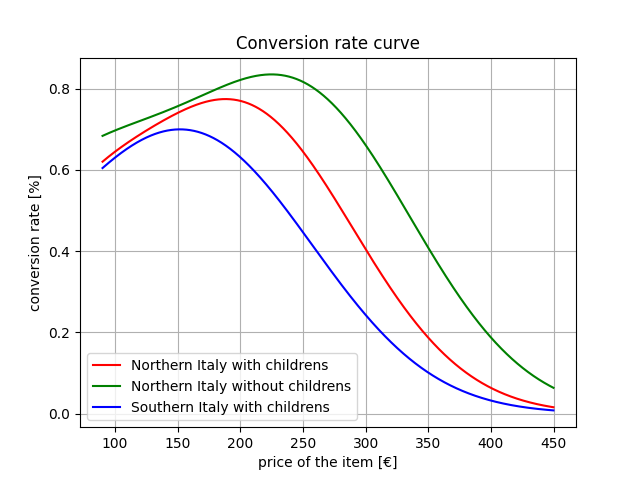
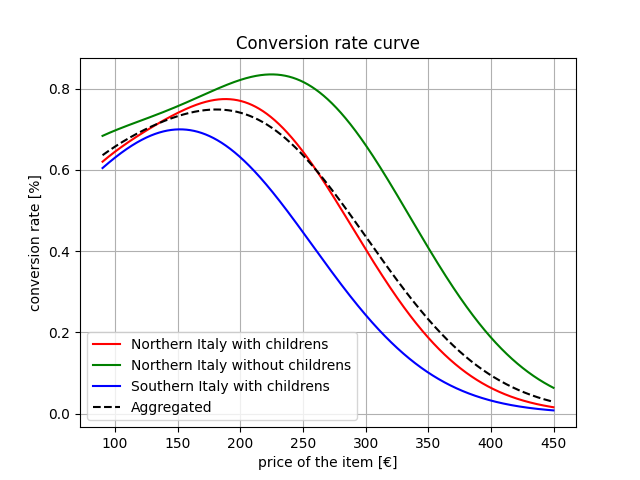
Fix legend in demandLearner & small changes

diff --git a/PricingForClicks/main.py b/PricingForClicks/main.py
@@ -5,7 +5,7 @@ import utils, math
 from scipy import optimize
 
 
-f = lambda x: utils.getDemandCurve(0, x)
+f = lambda x: utils.getDemandCurve(-1, x)  # aggregated fn
 T = 300
 best_x = optimize.fmin(lambda x: -f(x), T/2)
 optimum = f(best_x)
@@ -18,15 +18,17 @@ colors = ['r', 'g', 'b', 'c', 'y']
 
 for n in range(n_arms-2, n_arms + 3):
     n_arms_arr.append((n, colors[n % 5]))
+n_arms_arr.append((12, 'k--'))  # 25€ steps
 
 np_arms_arr = np.array(n_arms_arr)
 
-n_experiments = 1000
+n_experiments = 10
 ts_rewards_per_experiment = []
+legend = []
 
 for (n_arms, c) in n_arms_arr:
     print("N ARMS: %d" % n_arms)
-    env = Environment(n_arms=n_arms, demandCurve=f, minPrice=0, maxPrice=400)
+    env = Environment(n_arms=n_arms, demandCurve=f, minPrice=100, maxPrice=400)
     for e in range(0, n_experiments):
         ts_learner = TS_Learner(n_arms=n_arms)
         for t in range(0, T):
@@ -39,6 +41,7 @@ for (n_arms, c) in n_arms_arr:
 
     plt.figure(0)
     plt.plot(np.cumsum(np.mean(optimum - ts_rewards_per_experiment,axis=0)), c)
+    legend.append(str(n_arms) + " arms")
 
-plt.legend(np_arms_arr[:, 1])
+plt.legend(legend)
 plt.show()

diff --git a/utils.py b/utils.py
@@ -41,5 +41,7 @@ def getDemandCurve(userType, t):
         return 0.75*np.exp(-np.power(t - 200, 2.) / (2 * np.power(90, 2.))) + 0.3*np.exp(-np.power(t - 60, 2.) / (2 * np.power(60, 2.)))
     elif (userType == 1):
         return 0.75*np.exp(-np.power(t - 250, 2.) / (2 * np.power(90, 2.))) + 0.55*np.exp(-np.power(t - 65, 2.) / (2 * np.power(90, 2.)))
-    else:
+    elif  (userType == 2):
         return 0.42*np.exp(-np.power(t - 180, 2.) / (2 * np.power(90, 2.))) + 0.35*np.exp(-np.power(t - 85, 2.) / (2 * np.power(120, 2.)))
+    else:
+        return (0.75*np.exp(-np.power(t - 200, 2.) / (2 * np.power(90, 2.))) + 0.3*np.exp(-np.power(t - 60, 2.) / (2 * np.power(60, 2.))) + 0.75*np.exp(-np.power(t - 250, 2.) / (2 * np.power(90, 2.))) + 0.55*np.exp(-np.power(t - 65, 2.) / (2 * np.power(90, 2.))) + 0.42*np.exp(-np.power(t - 180, 2.) / (2 * np.power(90, 2.))) + 0.35*np.exp(-np.power(t - 85, 2.) / (2 * np.power(120, 2.)))) / 3

diff --git a/demand_cure_plotter.py b/demand_cure_plotter.py
@@ -9,12 +9,14 @@ t = np.arange(90., 450., 0.1)
 s1 = utils.getDemandCurve(0, t)
 s2 = utils.getDemandCurve(1, t)
 s3 = utils.getDemandCurve(2, t)
+aggr = utils.getDemandCurve(-1, t)
 
 fig, ax = plt.subplots()
 ax.plot(t, s1, "r")
 ax.plot(t, s2, "g")
 ax.plot(t, s3, "b")
-plt.legend(["Northern Italy with childrens", "Northern Italy without childrens", "Southern Italy with childrens"])
+ax.plot(t, aggr, "k--")
+plt.legend(["Northern Italy with childrens", "Northern Italy without childrens", "Southern Italy with childrens", "Aggregated"])
 ax.set(xlabel='price of the item [€]', ylabel='conversion rate [%]',
        title='Conversion rate curve')
 ax.grid()

diff --git a/Non_Stationary/cmab_with_phases.py b/Non_Stationary/cmab_with_phases.py
@@ -14,7 +14,7 @@ total_budget = 80
 budgets_j = [np.arange(min_budgets[0], max_budgets[0] + 1, step), np.arange(min_budgets[1], max_budgets[1] + 1, step), np.arange(min_budgets[2], max_budgets[2] + 1, step)]      # +1 to max_budget because range does not include the right extreme of the interval by default
 n_arms = [len(budgets_j[0]), len(budgets_j[1]), len(budgets_j[2])]
 sigma = 100
-T = 400  # T should be a multiple of env.N_PHASES or not all phases wil have same length
+T = 364  # T should be a multiple of env.N_PHASES or not all phases wil have same length
 J = 3
 n_experiments = 30
 per_experiment_rewards_gpts = [[] for i in range(0, J)]
